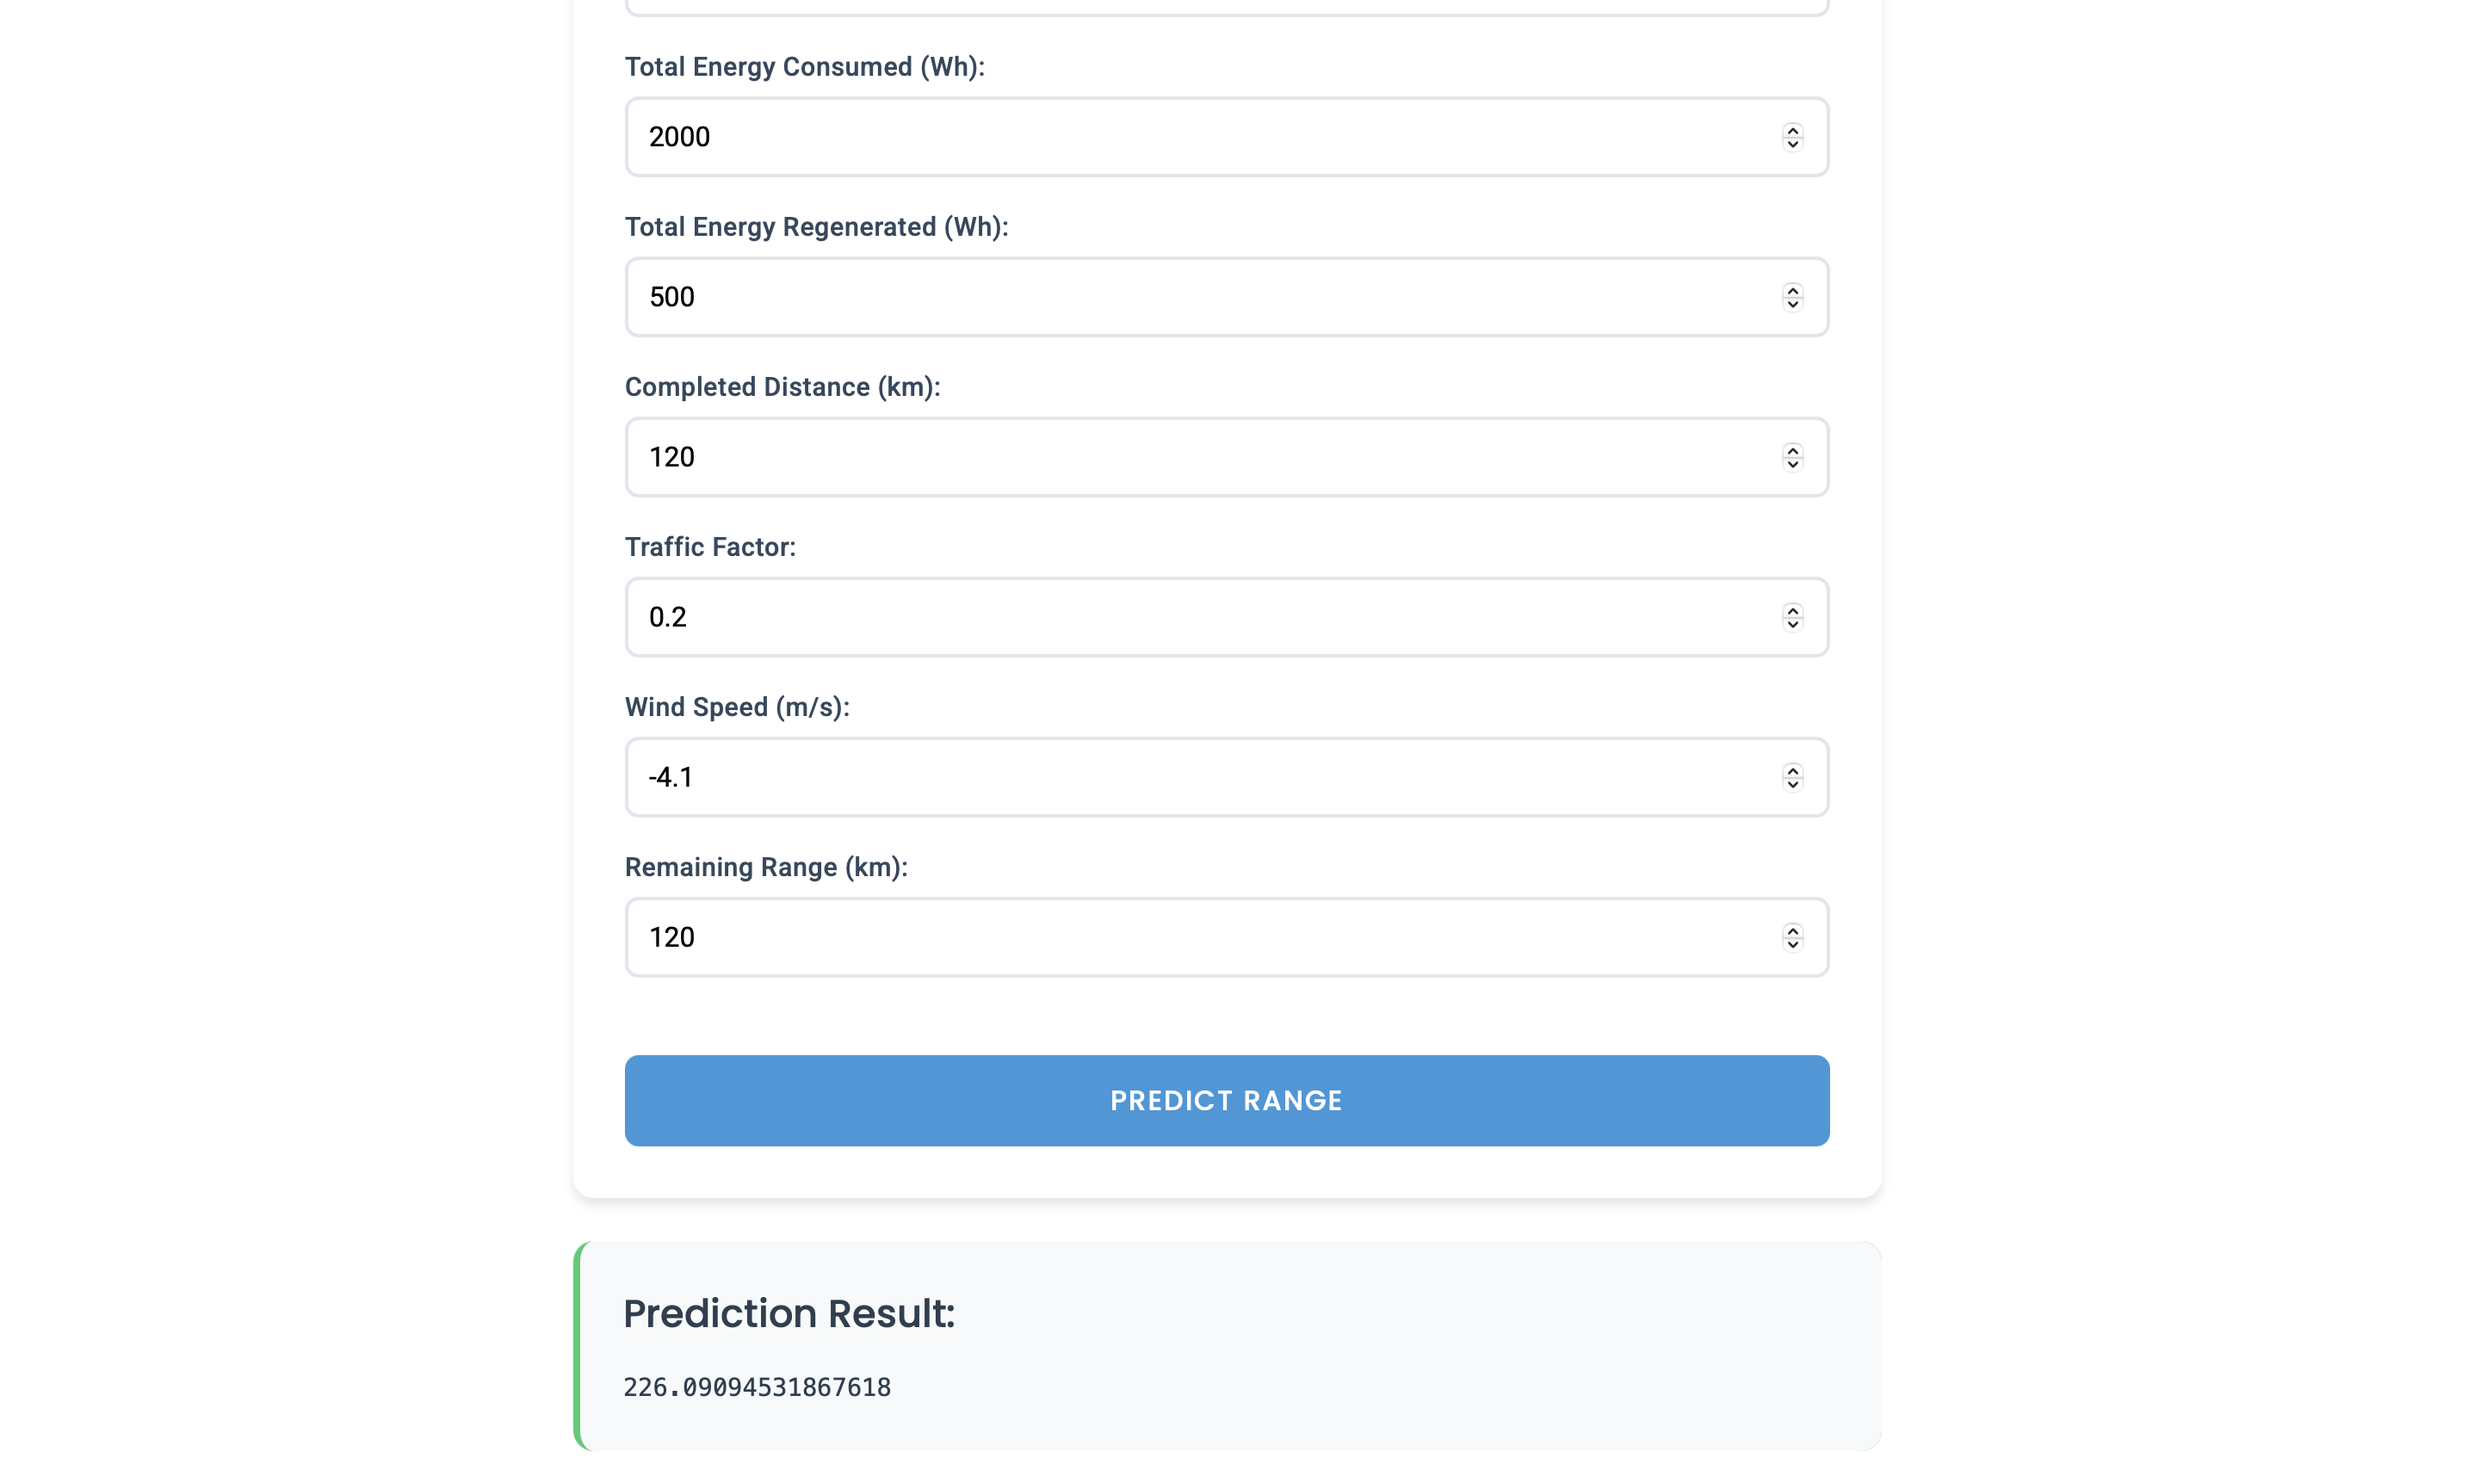
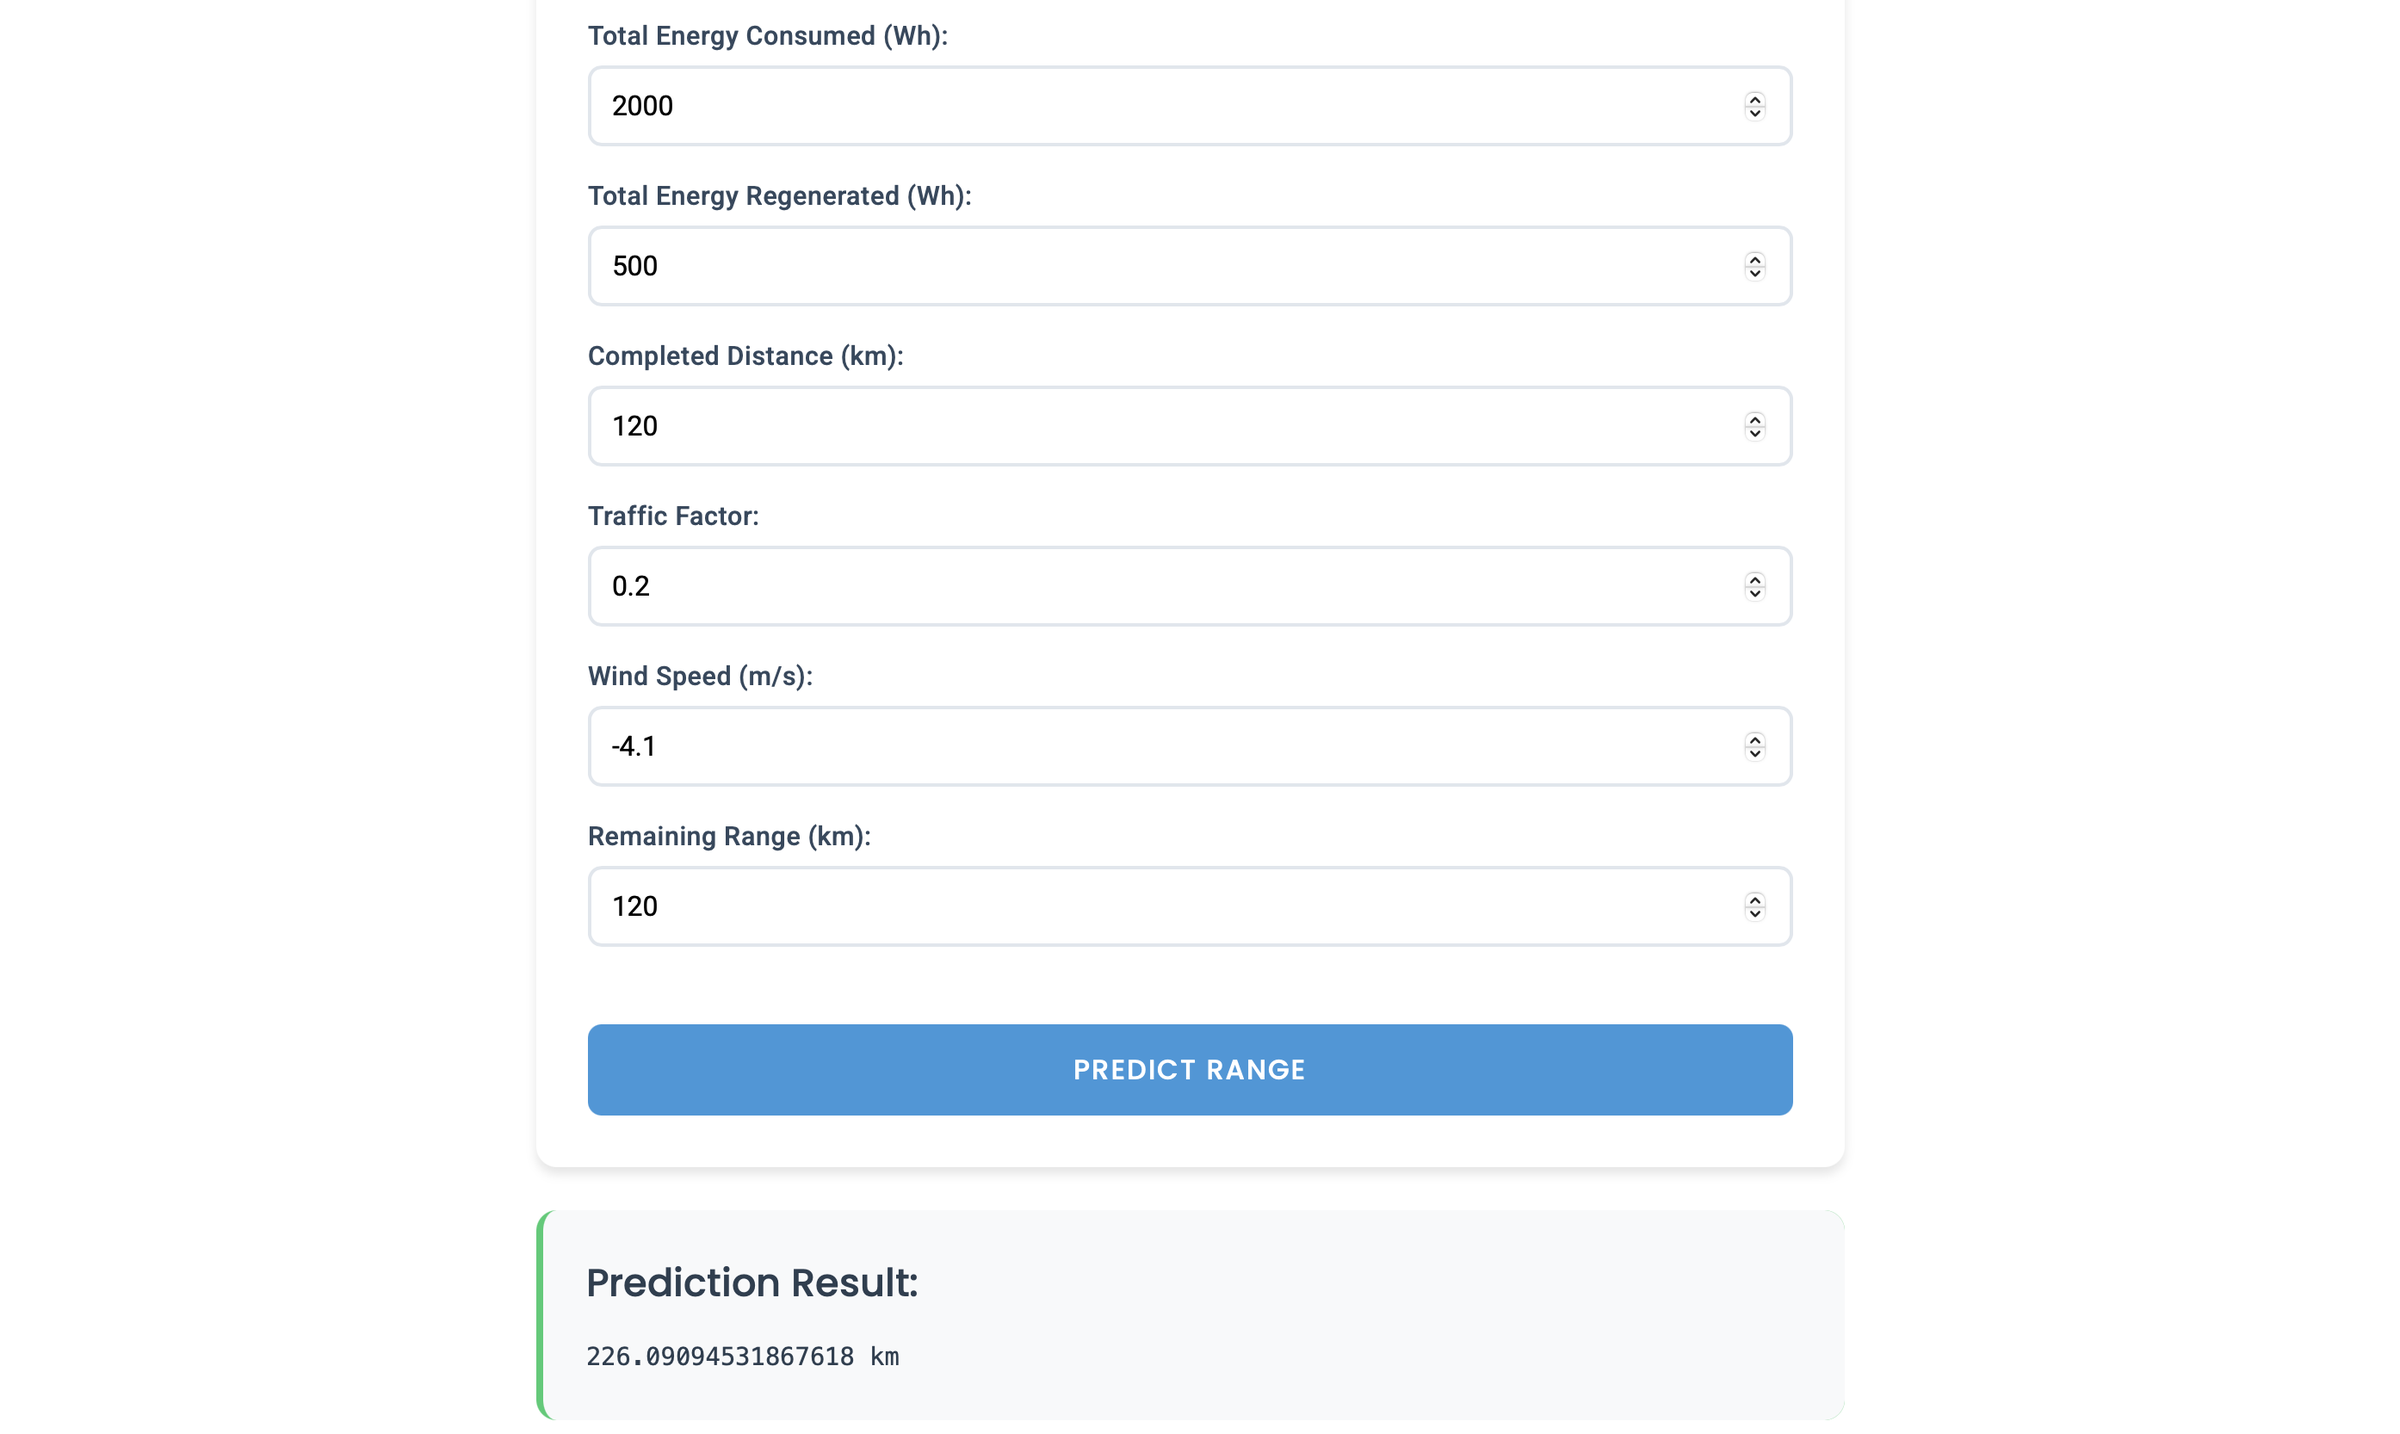
add units of measurement to prediction result on ui

Changed region(s): [[0.2184, 0.0, 0.7489, 0.7803], [0.2184, 0.8427, 0.4057, 0.9988]]

diff --git a/frontend/src/app/app.component.ts b/frontend/src/app/app.component.ts
@@ -88,44 +88,47 @@ export class AppComponent {
   }
 
   setActiveTab(tab: string) {
-    this.activeTab = tab;
-    this.prediction = null;
-    this.error = null;
+    this.activeTab = tab
+    this.prediction = null
+    this.error = null
   }
 
   onSubmit() {
-    this.loading = true;
-    this.prediction = null;
-    this.error = null;
+    this.loading = true
+    this.prediction = null
+    this.error = null
 
-    let observable;
-    let formData;
+    let observable
+    let formData
+    let suffix = ""
 
     switch (this.activeTab) {
       case 'range':
-        formData = this.rangeForm.value;
-        observable = this.predictionService.predictRange(formData);
-        break;
+        formData = this.rangeForm.value
+        observable = this.predictionService.predictRange(formData)
+        suffix = " km"
+        break
       case 'consumption':
-        formData = this.consumptionForm.value;
-        observable = this.predictionService.predictConsumption(formData);
-        break;
+        formData = this.consumptionForm.value
+        observable = this.predictionService.predictConsumption(formData)
+        suffix = " kWh"
+        break
       case 'batteryRange':
-        formData = this.batteryRangeForm.value;
-        observable = this.predictionService.predictBatteryRange(formData);
-        break;
+        formData = this.batteryRangeForm.value
+        observable = this.predictionService.predictBatteryRange(formData)
+        break
       default:
-        return;
+        return
     }
 
     observable.subscribe({
       next: (response: Prediction) => {
-        this.prediction = response.prediction;
-        this.loading = false;
+        this.prediction = response.prediction + suffix
+        this.loading = false
       },
       error: (error) => {
-        this.error = error.message || error.details || "Unknown error occurred.";
-        this.loading = false;
+        this.error = error.message || error.details || "Unknown error occurred."
+        this.loading = false
       }
     });
   }
